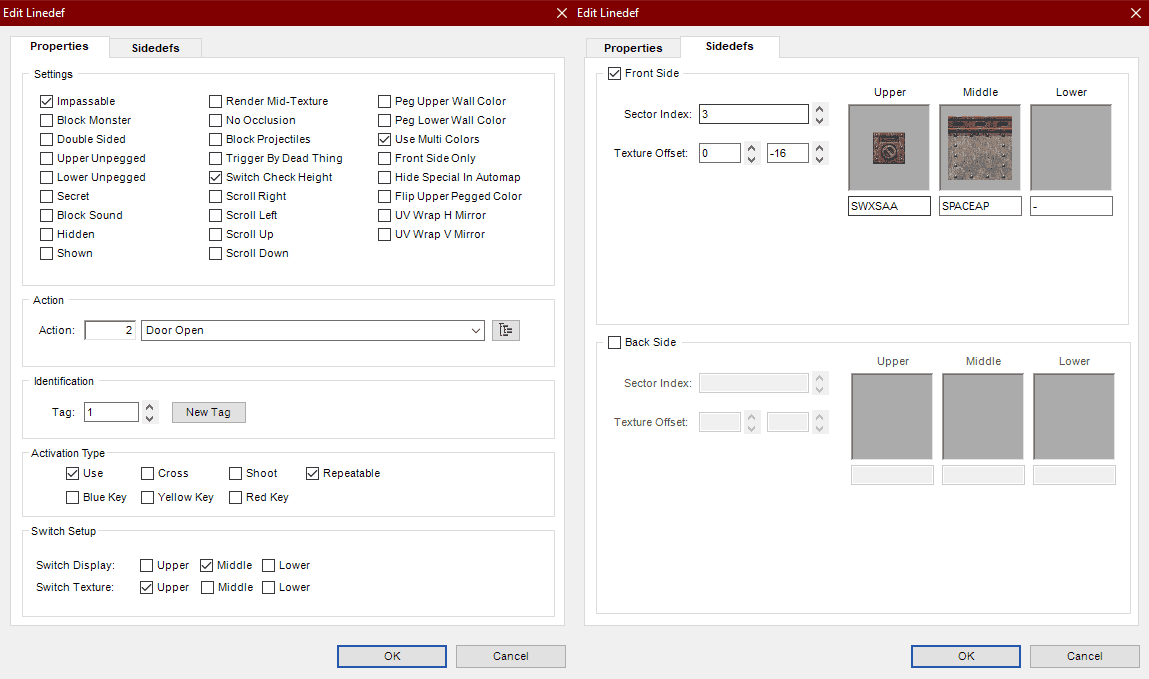
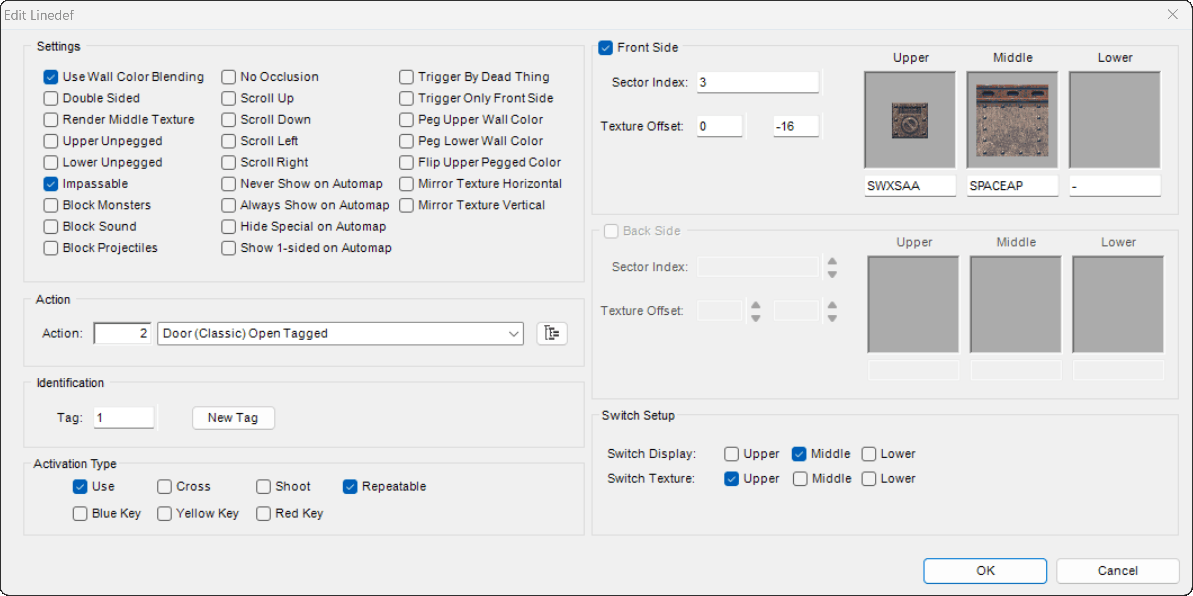
Doom Builder 64 Enhanced Update
Correct and update documentation based on the latest Doom Builder 64 Enhanced updates: https://github.com/Styd051/Doom-Builder-64-Enhanced/releases/

diff --git a/maps/switches/index.html b/maps/switches/index.html
@@ -34,7 +34,7 @@
 		
 			<p>Note that, when making switches how it was done originally in Doom 64, the switch graphics do not show up properly in Doom Builder 64. But when tested in game it will work as originally intended. This is because switches are displayed as decals and not textures, which Doom Builder 64 has not implemented yet.</p>
 			
-			<p>You can find the options to make switches in the "Edit Linedef" panel. In general enabling the "Switch Check Height" setting is required for switches to display properly in the most Doom 64 engines. Then depending on what you want the switch to do, whether it be a door action, floor action or a macro script, select the appropriate option in "Action". This will apply to the sector with the corresponding number in "Identification". In "Activation Type" you can select "Use" if you want the player’s use action to activate it, and/or you can select "Shoot" if you also want a shootable switch. This switch will only work once, but if you further select "Repeatable" then the switch can be used multiple times.</p>
+			<p>You can find the options to make switches in the "Edit Linedef" panel. Then depending on what you want the switch to do, whether it be a door action, floor action or a macro script, select the appropriate option in "Action". This will apply to the sector with the corresponding number in "Identification". In "Activation Type" you can select "Use" if you want the player’s use action to activate it, and/or you can select "Shoot" if you also want a shootable switch. This switch will only work once, but if you further select "Repeatable" then the switch can be used multiple times.</p>
 			
 			</p>The "Switch Setup" section allows you to determine how the switch should be displayed to the player. First, the "Switch Display" option determines which vertical portion of the linedef (Upper, Middle, or Lower) the switch graphic will attach to. If you want to add a switch to a wall of a lowered ceiling, then select "Upper". Then if you want to add a switch between a ceiling and a floor to a wall select "Middle". And then if you want to add a switch to the side of a raised floor select "Lower". If your desired surface is missing a texture, the switch will not show up, but this surface can be any texture. This allows you to overlay the switch over various textures to create interesting looking switches. Then "Switch Texture" is to set which surface you plan on selecting the switch texture. This surface should be one that is not visible to the player, so if you don’t have a lowered ceiling put it in "Upper", and if you don’t have a raised floor put it in "Lower"<p>
 			
@@ -52,25 +52,20 @@
 			
 			<img src="insetswitch02.png" alt="Inset Switch Sector Properties" style="width: 477px; height: 583px;  image-rendering: pixelated;" />
 			
-			<p>Now for the very top of the linedef (the most inset line), which the switch should lie on, you can set these properties. First in Settings check "Switch Check Height", this is required for the switch to work on most engines. Then for this switch in particular, it is opening a sector door tagged 2, but you can change it to whatever you need the switch to do. This switch is set to activate on use so "Use" is checked and it is intended to be used more than once, so "Repeatable" is checked. Since it is a one sided line-def the Switch Display set to "Middle". Then Switch Texture to "upper" as that is where the switch decal will be defined for this switch. Here the "SWXSAA" texture is chosen for the switch. It will automatically switch to "SWXSAB" when the player uses it. Since switches are always offset from the edge by 16 units, this inset requires a -16 Y texture offset to display correctly.</p>
+			<p>Now for the very top of the linedef (the most inset line), which the switch should lie on, you can set these properties. For this switch in particular, it is opening a sector door tagged 2, but you can change it to whatever you need the switch to do. This switch is set to activate on use so "Use" is checked and it is intended to be used more than once, so "Repeatable" is checked. Since it is a one sided line-def the Switch Display set to "Middle". Then Switch Texture to "upper" as that is where the switch decal will be defined for this switch. Here the "SWXSAA" texture is chosen for the switch. It will automatically switch to "SWXSAB" when the player uses it. Since switches are always offset from the edge by 16 units, this inset requires a -16 Y texture offset to display correctly.</p>
 			
-			<img src="insetswitch03.png" alt="Inset Switch Linedef Properties" style="width: 1149px; height: 679px;  image-rendering: pixelated;" />
+			<img src="insetswitch03.png" alt="Inset Switch Linedef Properties" style="width: 1193px; height: 596px;  image-rendering: pixelated;" />
 			
 			<p>That is all you need for this type of inset switch! The image below shows what the switch looks like in Doom Builder 64 (left) and the Doom 64 Remaster (right). Notice that due to our offset, for inset switches the texture in Doom Builder 64 is offset downard and further it does not show the switch. But in the Doom 64 Remaster, the switch shows up just fine.</p>
 			
-			<img src="insetswitch04.png" alt="Inset Switch Linedef Properties" style="width: 800px; height: 400px;  image-rendering: pixelated;" />
+			<img src="insetswitch04.png" alt="Inset Switch in Game" style="width: 800px; height: 400px;  image-rendering: pixelated;" />
 			
 			
 		<h2>Engine Specific Differences</h2>
 		
 			<p>For most Doom 64 engines, except for Doom 64 EX, the player's activation distance can pass through single-sided linedefs (walls). This means that, if the activating linedef is not far enough away, a player can activate a switch or a door through a thin wall. A remedy to this is to make the wall thicker. Depending on the angle, the "Trigger Only Front Side" flag can be used to prevent the player from activating a backside of a linedef as well.</p>
 		
-			<p>On the Nintendo 64 and Doom 64 Remaster, despite the implications of "Switch Check Height", switches can be activated from any height when shot unless a sector of sufficienct size blocks the hitscan. Even if the switch is embedded into the floor, if a player's shot can cross the linedef, it will be activated. However a raised sector can be used to block shots from activating linedefs; particularly inset switches solve this problem.</p>
-			
-			<p>Doom 64 EX is less stringent on how switches are built. Flags such as "Switch Check Height" aren't required.</p>
-			
-			<p></p>
-		
+			<p>On the Nintendo 64 and Doom 64 Remaster, switches can be activated from any height when shot unless a sector of sufficienct size blocks the hitscan. Even if the switch is embedded into the floor, if a player's shot can cross the linedef, it will be activated. However a raised sector can be used to block shots from activating linedefs; particularly inset switches solve this problem.</p>
 		
 	</div>
 

diff --git a/maps/actions/list.html b/maps/actions/list.html
@@ -119,7 +119,7 @@
 				<tr><th>Action #</th><th>Line Action</th><th>Macro Action</th><th>Description</th></tr>
 			</thead><tbody>
 				<tr><td>39</td><td>Teleport</td><td>Teleport_Normal(<i>tid</i>)<br/>Teleport_ToDest(<i>tid</i>)</td><td>Teleports the activating thing normally (with sound and green glow) to tagged destination. On the Doom 64 Remaster you can not teleport via a switch.</td></tr>
-				<tr><td>125</td><td>Teleport (monsters only)</td><td>(undefined)</td><td>Teleports monsters only (with sound and green glow) to tagged destination.</td></tr>
+				<tr><td>125</td><td>Teleport (monsters only)</td><td>Teleport_Monster_Only(<i>tid</i>)</td><td>Teleports monsters only (with sound and green glow) to tagged destination.</td></tr>
 				<tr><td>249</td><td>Silent Teleport</td><td>Teleport_Silent(<i>tid</i>)<br/>Teleport_Stomp(<i>tid</i>)</td><td>Teleports the activating thing without any sound and glow to tagged destination. On the Doom 64 Remaster you can not use this via a switch if it is a single action but it works with a macro. Originally thought to be player-only, monsters can activate this too if "Trigger By Dead Thing" is set on the referencing linedef.</td></tr>
 			</tbody></table>
 
@@ -144,7 +144,7 @@
 			<table><thead>
 				<tr><th>Action #</th><th>Line Action</th><th>Macro Action</th><th>Description</th></tr>
 			</thead><tbody>
-				<tr><td>17</td><td>Start Light Strobing</td><td>(undefined)</td><td>Starts a light which brightens every second on the tagged sector which matches the linedef <i>tag</i>.</td></tr>
+				<tr><td>17</td><td>Start Light Strobing</td><td>Start_Light_Strobing(<i>tag</i>)</td><td>Starts a light which brightens every second on the tagged sector which matches the linedef <i>tag</i>.</td></tr>
 				<tr><td>222</td><td>Copy All Lights from Global Integer</td><td>Sector_CopyLights(<i>dsttag</i>, <i>srctag</i>)</td><td>Instantly copies the lights to the sector with the line tag / <i>dsttag</i>, from the sector with the tag defined by <i>srctag</i> or global integer (action 204).</td></tr>
 				<tr><td>234</td><td>Copy Upper Light from Global Integer</td><td>SetLightID(<i>dsttag</i>, <i>srctag</i>)</td><td>Smoothly blends upper wall and ceiling lights at sector with the line tag / <i>dsttag</i>, from the sector with the tag defined by <i>srctag</i> or global integer (action 204).</td></tr>
 				<tr><td>235</td><td>Smoothly Copy All Lights from Global Integer</td><td>Sector_CopyLightsAndInterpolate(<i>dsttag</i>, <i>srctag</i>)</td><td>Smoothly transitions the lights at sector with the line tag / <i>dsttag</i>, from the sector with the tag defined by <i>srctag</i> or global integer (action 204). This action operates on the "LIGHTS" lump and will change the color of any sector that has the same color as the destination tag. Therefore, it is recommended to give the destination sector a unique sector color.</td></tr>
@@ -229,9 +229,9 @@
 			<table><thead>
 				<tr><th>Action #</th><th>Line Action</th><th>Macro Action</th><th>Description</th></tr>
 			</thead><tbody>
-				<tr><td>90</td><td>Artifact Switch 1 (Orange)</td><td>(undefined)</td><td>Will check if player has the orange artifact and will activate line with the tag one higher than the current line.</td></tr>
-				<tr><td>91</td><td>Artifact Switch 2 (Blue)</td><td>(undefined)</td><td>Will check if player has the blue artifact and will activate line with the tag one higher than the current line.</td></tr>
-				<tr><td>92</td><td>Artifact Switch 3 (Purple)</td><td>(undefined)</td><td>Will check if player has the purple artifact and will activate line with the tag one higher than the current line.</td></tr>
+				<tr><td>90</td><td>Artifact Switch 1 (Orange)</td><td>Orange_Artifact_Switch(<i>tag</i>)</td><td>Will check if player has the orange artifact and will activate line with the tag one higher than the current line.</td></tr>
+				<tr><td>91</td><td>Artifact Switch 2 (Blue)</td><td>Blue_Artifact_Switch(<i>tag</i>)</td><td>Will check if player has the blue artifact and will activate line with the tag one higher than the current line.</td></tr>
+				<tr><td>92</td><td>Artifact Switch 3 (Purple)</td><td>Purple_Artifact_Switch(<i>tag</i>)</td><td>Will check if player has the purple artifact and will activate line with the tag one higher than the current line.</td></tr>
 			</tbody></table>
 
 		<h2>Exits</h2>

diff --git a/maps/things/index.html b/maps/things/index.html
@@ -48,13 +48,14 @@
 				<tr><td>0x8</td><td>Ambush Players</td><td>Do not react to player attack sound (deaf)</td><td>Original</td></tr>
 				<tr><td>0x10</td><td>Multiplayer Only</td><td>Thing is not in single player</td><td>Original</td></tr>
 				<tr><td>0x20</td><td>Spawned by Special</td><td>Don't spawn until triggered with action or macro</td><td>Original</td></tr>
-				<tr><td>0x40</td><td>Trigger On Pick Up</td><td>Trigger tagged linedef with matching TID when picked up</td><td>Original</td></tr>
-				<tr><td>0x80</td><td>Trigger On Death</td><td>Trigger tagged linedef with matching TID when killed</td><td>Original</td></tr>
-				<tr><td>0x100</td><td>Count Secret On Pick Up</td><td>Count as secret for intermission when picked up</td><td>Original</td></tr>
+				<tr><td>0x40</td><td>Trigger on Pick Up</td><td>Trigger tagged linedef with matching TID when picked up</td><td>Original</td></tr>
+				<tr><td>0x80</td><td>Trigger on Death</td><td>Trigger tagged linedef with matching TID when killed</td><td>Original</td></tr>
+				<tr><td>0x100</td><td>Count Secret on Pick Up</td><td>Count as secret for intermission when picked up</td><td>Original</td></tr>
 				<tr><td>0x200</td><td>No Infighting</td><td>Never fight other monsters</td><td>Original</td></tr>
 				<tr><td>0x400</td><td>No Spawn in Deathmatch</td><td>Do not spawn thing in deathmatch mode</td><td>Modern (Unused)</td></tr>
 				<tr><td>0x800</td><td>No Spawn in Multiplayer</td><td>Do not spawn thing in any multiplayer mode</td><td>Modern (Unused)</td></tr>
 				<tr><td>0x1000</td><td>Nightmare Creature</td><td>Give monster double health, fast speed, and green color</td><td>Modern</td></tr>
+				<tr><td>0x4000</td><td>Drop Off Ledges</td><td>Monsters will drop off of ledges</td><td>EX+</td></tr>
 			</tbody>
 			</table>
 	</div>

diff --git a/maps/db64/index.html b/maps/db64/index.html
@@ -23,7 +23,7 @@
 	
 		<h1>Doom Builder 64 Setup</h1>
 		
-		<p><a href="https://github.com/thekovic/DoomBuilder64/releases/">Doom Builder 64</a> is the premier map editor for the native Doom 64 map format. It is a heavily modified version of Pascal Van Heiden's <a href="https://web.archive.org/web/20171126040531/http://www.doombuilder.com/">Doom Builder</a> by Kaiser, with updates from Iori, and currently maintained by Kovic.</p>
+		<p><a href="https://github.com/Styd051/Doom-Builder-64-Enhanced/releases/">Doom Builder 64 Enhanced</a> is the premier map editor for the native Doom 64 map format. It is a heavily modified version of Pascal Van Heiden's <a href="https://web.archive.org/web/20171126040531/http://www.doombuilder.com/">Doom Builder</a> by Kaiser, with updates from Styd051, Kovic, Iori, and others.</p>
 		
 		<p>For compatibility with the most engines, the basic setup is to use the official Doom 64 Remaster to test your maps. In Doom Builder 64 there is a "Game Configuration (F6)" option in the "Tools" menu, which will let you set up Doom 64 and testing parameters. In the "Resources" tab select "Doom 64" at the left, then you can go to "Add resource..." and then find your "doom64.wad" in the Remaster directory. This will make sure every Doom 64 map will load the resources from the Doom 64 IWAD. For EX+ and its forks, it contains an additional WAD which you can add for expanded enemy support.</p>
 		

diff --git a/maps/index.html b/maps/index.html
@@ -31,10 +31,10 @@
 		
 		<h2>Map Building</h2>
 		
-			<p>You can make maps too! The Doom 64 level format is an iteration of the original Doom format with additional features for enhanced 3D rendering, colored lighting, and scripting. The latest iteration of Doom Builder 64, by Kovic, supports the official Doom 64 Remaster, Doom 64 EX, Doom 64 EX+, Super EX+, and the various Doom 64 engines targeting original Nintendo 64 hardware.</p>
+			<p>You can make maps too! The Doom 64 level format is an iteration of the original Doom format with additional features for enhanced 3D rendering, colored lighting, and scripting. The latest iteration of Doom Builder 64 Enhanced supports the official Doom 64 Remaster, Doom 64 EX, Doom 64 EX+, Super EX+, and the various Doom 64 engines targeting original Nintendo 64 hardware.</p>
 			
 			<ul>
-				<li><a href="https://github.com/thekovic/DoomBuilder64/releases/">Doom Builder 64</a></li>
+				<li><a href="https://github.com/Styd051/Doom-Builder-64-Enhanced/releases/">Doom Builder 64 Enhanced</a></li>
 				<li><a href="db64/index.html">Doom Builder 64 Setup Guide</a></li>
 			</ul>
 		
